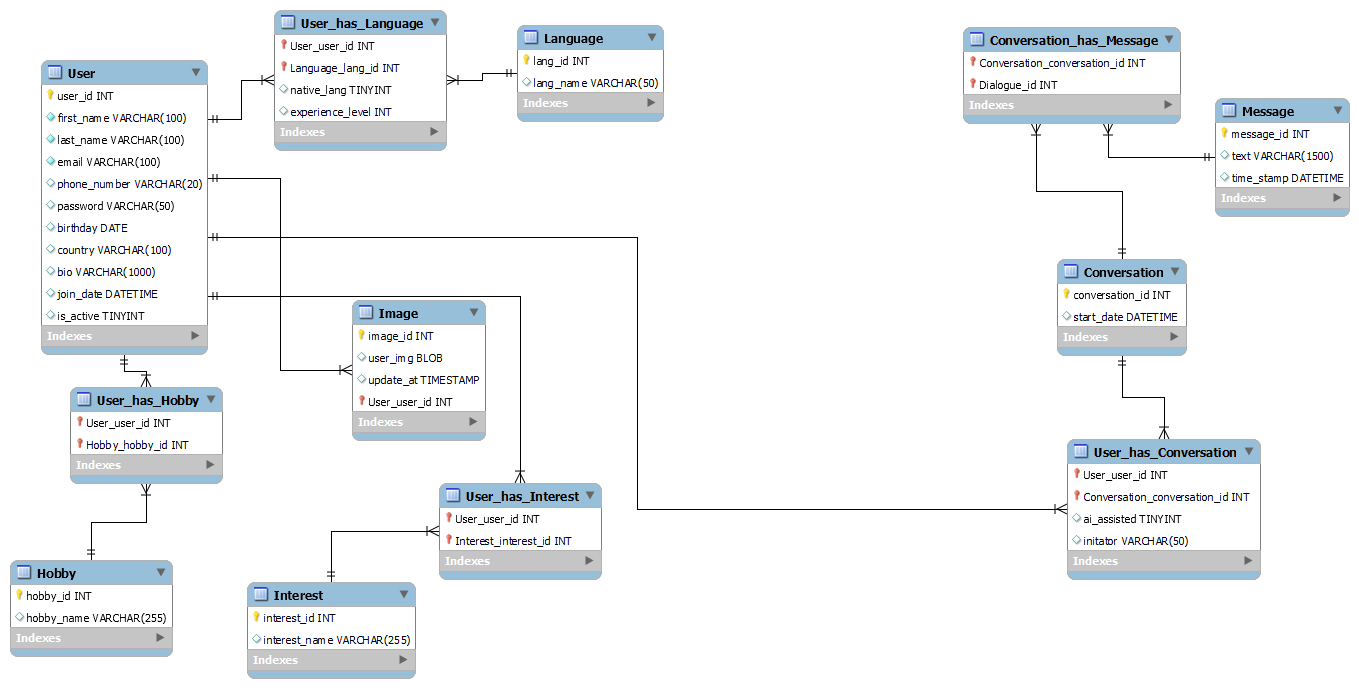
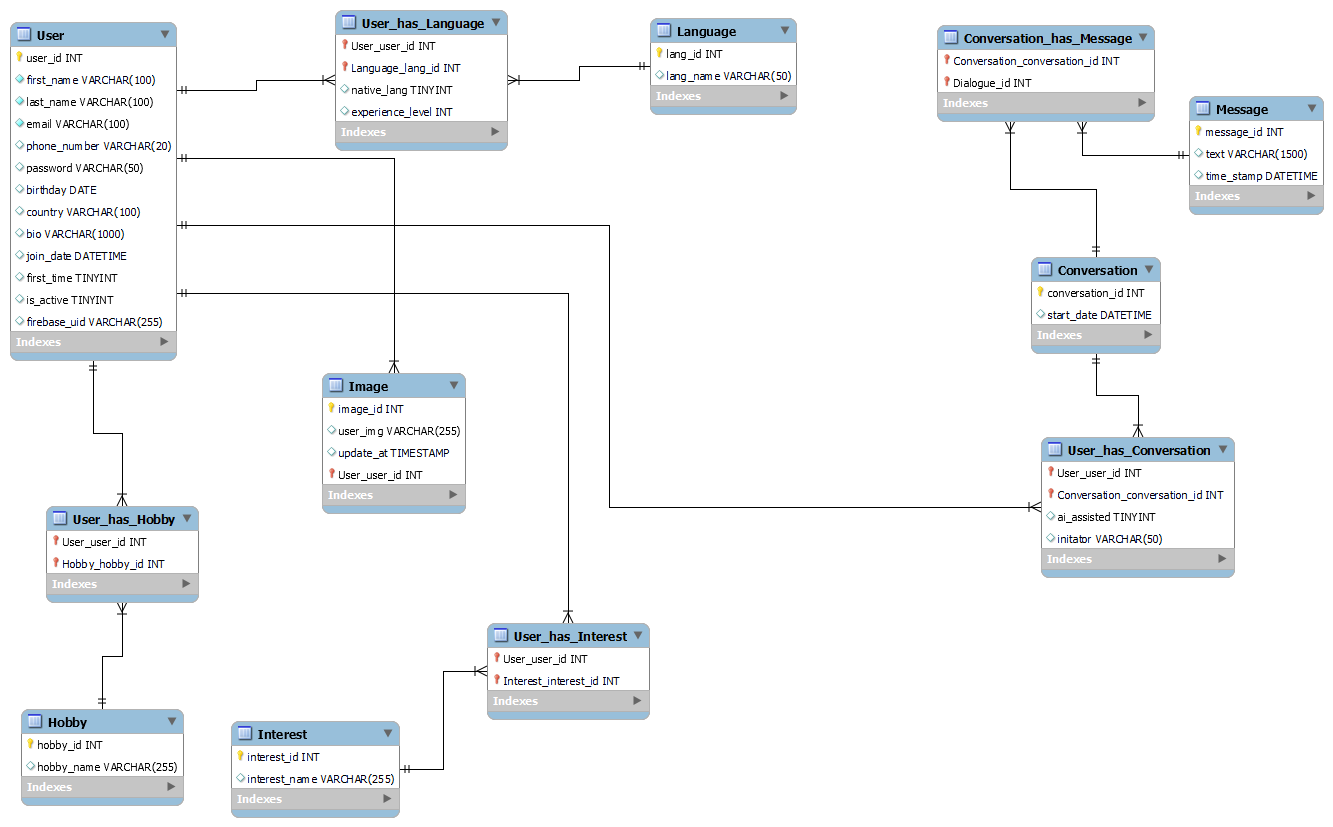
update dba, server is working with the last dba info, update languages, fixe some problems in edit, register and user info page.

diff --git a/chat_app/lib/screens/edit_user_info_page.dart b/chat_app/lib/screens/edit_user_info_page.dart
@@ -37,6 +37,8 @@ class _EditUserInfoPageState extends State<EditUserInfoPage> {
   late TextEditingController _emailController;
   late TextEditingController _passwordController;
   late TextEditingController _birthdayController;
+  final TextEditingController _confirmPasswordController =
+      TextEditingController();
 
   // Variables to store user data and selected values
   DateTime? _birthday;
@@ -84,6 +86,7 @@ class _EditUserInfoPageState extends State<EditUserInfoPage> {
     _emailController.dispose();
     _passwordController.dispose();
     _birthdayController.dispose();
+    _confirmPasswordController.clear();
 
     // Call the dispose method of the superclass
     super.dispose();
@@ -91,14 +94,21 @@ class _EditUserInfoPageState extends State<EditUserInfoPage> {
   }
 
   Future<void> _attemptUpdateUserInfo() async {
-    if (_imageFile != null) {
-      // Si hay una imagen seleccionada, primero sube la imagen y luego actualiza la información del usuario.
-      await _uploadImageToFirebase(_imageFile!).then((_) {
+    if (_formKey.currentState!.validate()) {
+      if (_imageFile != null) {
+        // If there is an image selected, first upload the image and then update the user information.
+        await _uploadImageToFirebase(_imageFile!).then((_) {
+          _updateUserInfo();
+        });
+      } else {
+        // If there is no new image selected, it simply updates the user information.
         _updateUserInfo();
-      });
+      }
     } else {
-      // Si no hay una nueva imagen seleccionada, simplemente actualiza la información del usuario.
-      _updateUserInfo();
+      // If the form is invalid, display a message or perform some action
+      ScaffoldMessenger.of(context).showSnackBar(
+        SnackBar(content: Text(tr('editUserInfo_validationFailed'))),
+      );
     }
   }
 
@@ -316,9 +326,31 @@ class _EditUserInfoPageState extends State<EditUserInfoPage> {
                 const SizedBox(height: 20), // Separator (20 pixels height)
                 // Password
                 TextFormField(
-                    controller: _passwordController,
-                    decoration: InputDecoration(
-                        labelText: tr('editUserInfo_newPassword'))),
+                  controller: _passwordController,
+                  decoration: InputDecoration(
+                      labelText: tr('editUserInfo_newPassword')),
+                  obscureText: true,
+                  validator: (value) {
+                    if (value!.isNotEmpty && value.length < 6) {
+                      return tr('editUserInfo_errorPasswordLong');
+                    }
+                    return null;
+                  },
+                ),
+                // Confirm password
+                TextFormField(
+                  controller: _confirmPasswordController,
+                  decoration: InputDecoration(
+                      labelText: tr('editUserInfo_confirmPassword')),
+                  obscureText: true,
+                  validator: (value) {
+                    if (_passwordController.text.isNotEmpty &&
+                        value != _passwordController.text) {
+                      return tr('editUserInfo_confirmPasswordNoMatch');
+                    }
+                    return null;
+                  },
+                ),
                 const SizedBox(height: 20), // Separator (20 pixels height)
                 // Bio
                 TextFormField(

diff --git a/mysql_conn/server.js b/mysql_conn/server.js
@@ -138,7 +138,7 @@ app.get('/userInfo', (req, res) => {
 // Endpoint for update user info
 app.put('/updateUserInfo', async (req, res) => {
 
-    console.log("Datos recibidos:", req.body);
+    //console.log("Datos recibidos:", req.body);
 
     const {
         email,
@@ -230,8 +230,8 @@ app.put('/updateUserInfo', async (req, res) => {
 
     // Register endpoint
     app.post('/register', upload.any(), async (req, res) => {
-    const { first_name, last_name, email, token, password, birthday, country, imageUrl } = req.body;
-    
+    const { first_name, last_name, email, phone_number, token, password, birthday, country, imageUrl } = req.body;
+    console.log('Datos recividos: ', req.body);
     try {
         // Verify the Firebase Auth token
         const decodedToken = await admin.auth().verifyIdToken(token);
@@ -247,10 +247,10 @@ app.put('/updateUserInfo', async (req, res) => {
 
         // Insert the user into the database including first_time
         const userQuery = `
-        INSERT INTO User (first_name, last_name, email, password, birthday, country, join_date, first_time, is_active, firebase_uid)
-        VALUES (?, ?, ?, ?, ?, ?, ?, ?, ?, ?)
+        INSERT INTO User (first_name, last_name, email, phone_number, password, birthday, country, join_date, first_time, is_active, firebase_uid)
+        VALUES (?, ?, ?, ?, ?, ?, ?, ?, ?, ?, ?)
         `;
-        db.execute(userQuery, [first_name, last_name, email, hashedPassword, birthday, country, join_date, first_time, is_active, token],
+        db.execute(userQuery, [first_name, last_name, email, phone_number, hashedPassword, birthday, country, join_date, first_time, is_active, token],
         (err, userResult) => {
             if (err) {
             console.error('Error registering the user', err);
@@ -261,7 +261,7 @@ app.put('/updateUserInfo', async (req, res) => {
             // If an image is provided, insert it into the images table
             if (imageUrl) {
             const userId = userResult.insertId; // Get the inserted user's ID
-            const imageUrl = imageUrl;
+            //const imageUrl = imageUrl;
             const imageQuery = 'INSERT INTO Image (user_img, User_user_id) VALUES (?, ?)';
             db.execute(imageQuery, [imageUrl, userId], (imageErr) => {
                 if (imageErr) {

diff --git a/chat_app/lib/screens/register_screen.dart b/chat_app/lib/screens/register_screen.dart
@@ -47,10 +47,10 @@ class _RegisterScreenState extends State<RegisterScreen> {
         password: _password,
       );
 
-      // Obtener el token de Firebase Auth
+      // Get Firebase Auth token
       final token = await userCredential.user!.getIdToken();
 
-      // Opcional: Subir imagen a Firebase Storage y obtener URL
+      // Optional: Upload image to Firebase Storage and get URL
       String imageUrl = await _uploadImageToFirebase(_imageFile);
 
       // Prepare the request
@@ -64,10 +64,10 @@ class _RegisterScreenState extends State<RegisterScreen> {
         ..fields['birthday'] =
             _birthday != null ? DateFormat('yyyy-MM-dd').format(_birthday!) : ''
         ..fields['bio'] = _bio
-        ..fields['user_img'] = imageUrl
+        ..fields['imageUrl'] = imageUrl
         ..fields['token'] = token ?? ''; // Token de Firebase Auth
 
-      // Si tienes un archivo de imagen para subir junto con los otros campos
+      // If you have an image file to upload along with the other fields
       if (_imageFile != null) {
         request.files.add(
             await http.MultipartFile.fromPath('userImage', _imageFile!.path));

diff --git a/chat_app/lib/screens/user_info_page.dart b/chat_app/lib/screens/user_info_page.dart
@@ -65,20 +65,20 @@ class _UserInfoPageState extends State<UserInfoPage> {
         height: 100,
         fit: BoxFit.cover,
         errorBuilder: (context, error, stackTrace) {
-          // Opción para manejar errores, como mostrar una imagen predeterminada
+          // Option to handle errors, such as showing a default image
           return _defaultUserImageWidget();
         },
       );
     } else {
-      // Si no hay URL de imagen, mostrar una imagen predeterminada
+      // If there is no image URL, show a default image
       return _defaultUserImageWidget();
     }
   }
 
   Widget _defaultUserImageWidget() {
-    // Método para mostrar una imagen predeterminada
+    // Method to display a default image
     return Image.asset(
-      'assets/img/photo.jpg', // Asegúrate de que la ruta de acceso sea correcta
+      'assets/img/photo.jpg',
       width: 100,
       height: 100,
       fit: BoxFit.cover,
